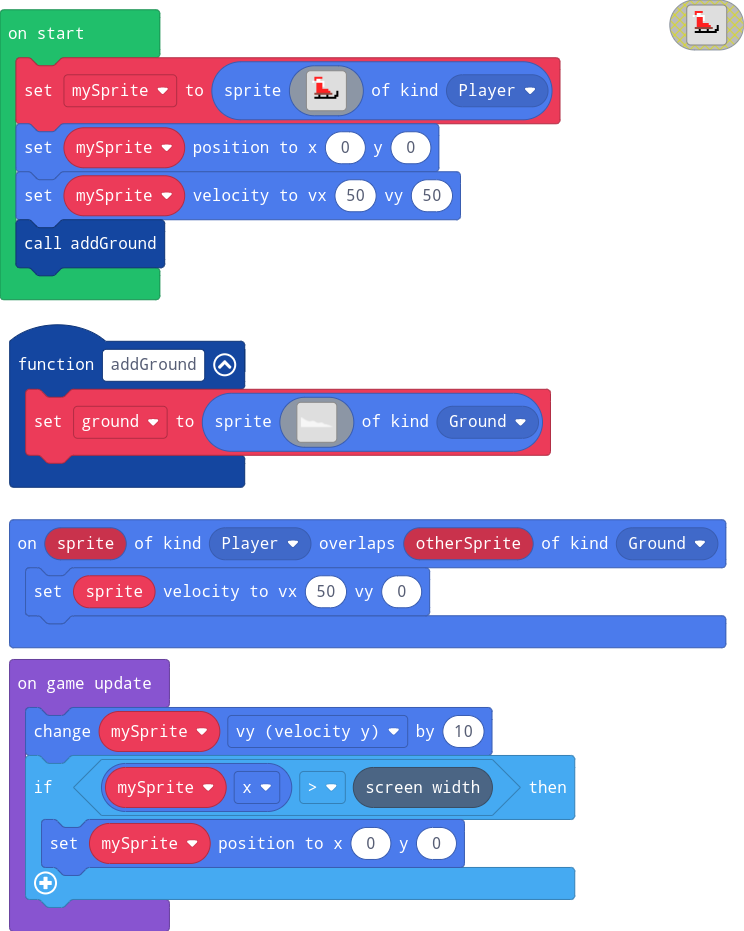
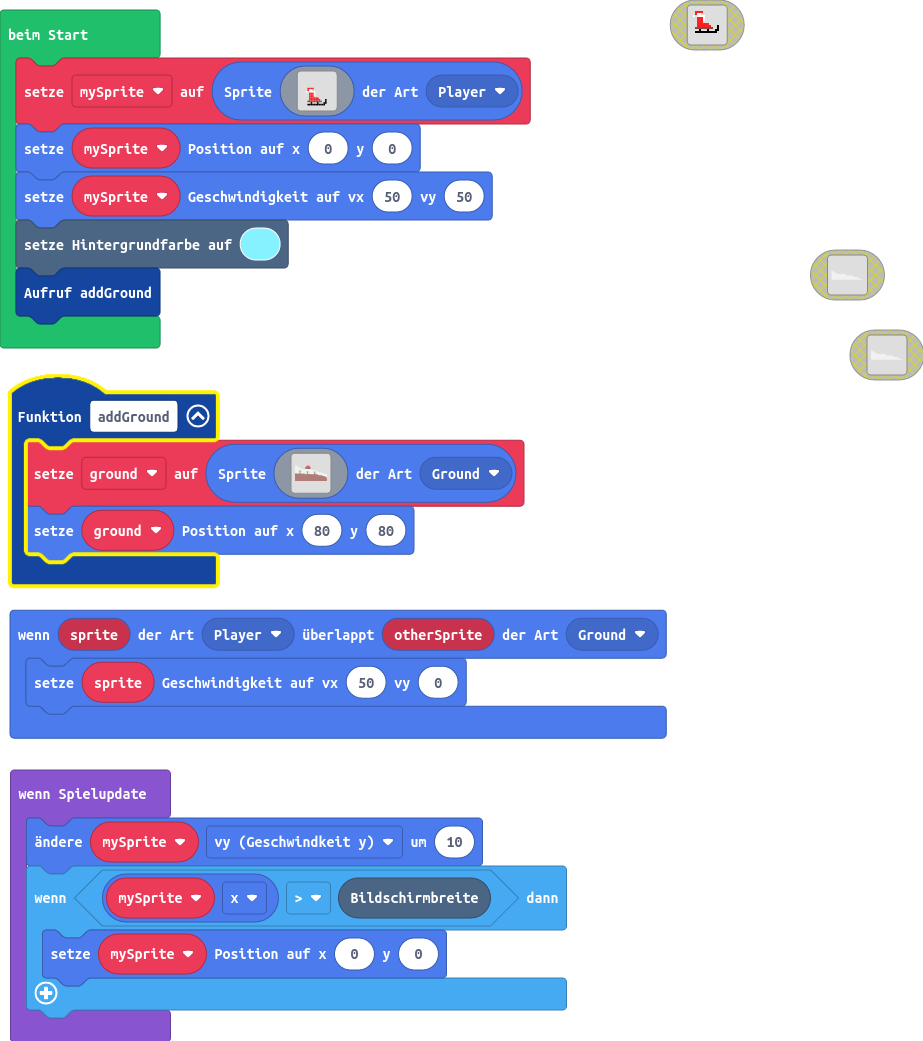
landschaft

diff --git a/main.ts b/main.ts
@@ -6,77 +6,115 @@ sprites.onOverlap(SpriteKind.Player, SpriteKind.Ground, function (sprite, otherS
 })
 function addGround () {
     ground = sprites.create(img`
-        ................................................................................................................................................................
+        11..............................................................................................................................................................
         111.............................................................................................................................................................
         111111..........................................................................................................................................................
-        1111111.........................................................................................................................................................
-        11111111........................................................................................................................................................
-        1111111111......................................................................................................................................................
-        111111111111....................................................................................................................................................
-        1111111111111...................................................................................................................................................
-        11111111111111..................................................................................................................................................
-        1111111111111111................................................................................................................................................
-        11111111111111111...............................................................................................................................................
-        1111111111111111111.............................................................................................................................................
-        111111111111111111111...........................................................................................................................................
-        1111111111111111111111..........................................................................................................................................
-        111111111111111111111111........................................................................................................................................
-        11111111111111111111111111......................................................................................................................................
-        111111111111111111111111111.....................................................................................................................................
-        111111111111111111111111111111..................................................................................................................................
-        111111111111111111111111111111111...............................................................................................................................
-        11111111111111111111111111111111111...................11111111111...............................................................................................
-        11111111111111111111111111111111111111............111111111111111111............................................................................................
-        1111111111111111111111111111111111111111111111111111111111111111111111..........................................................................................
-        11111111111111111111111111111111111111111111111111111111111111111111111.........................................................................................
-        1111111111111111111111111111111111111111111111111111111111111111111111111.......................................................................................
-        111111111111111111111111111111111111111111111111111111111111111111111111111.....................................................................................
-        1111111111111111111111111111111111111111111111111111111111111111111111111111....................................................................................
-        11111111111111111111111111111111111111111111111111111111111111111111111111111...................................................................................
-        11111111111111111111111111111111111111111111111111111111111111111111111111111111..................1111111.......................................................
-        11111111111111111111111111111111111111111111111111111111111111111111111111111111111...........11111111111111....................................................
-        11111111111111111111111111111111111111111111111111111111111111111111111111111111111111111111111111111111111111..................................................
-        111111111111111111111111111111111111111111111111111111111111111111111111111111111111111111111111111111111111111.................................................
-        1111111111111111111111111111111111111111111111111111111111111111111111111111111111111111111111111111111111111111................................................
-        11111111111111111111111111111111111111111111111111111111111111111111111111111111111111111111111111111111111111111...............................................
-        1111111111111111111111111111111111111111111111111111111111111111111111111111111111111111111111111111111111111111111.............................................
-        111111111111111111111111111111111111111111111111111111111111111111111111111111111111111111111111111111111111111111111...........................................
-        111111111111111111111111111111111111111111111111111111111111111111111111111111111111111111111111111111111111111111111111........................................
-        111111111111111111111111111111111111111111111111111111111111111111111111111111111111111111111111111111111111111111111111111111111...............................
-        11111111111111111111111111111111111111111111111111111111111111111111111111111111111111111111111111111111111111111111111111111111111.............................
-        1111111111111111111111111111111111111111111111111111111111111111111111111111111111111111111111111111111111111111111111111111111111111...........................
-        111111111111111111111111111111111111111111111111111111111111111111111111111111111111111111111111111111111111111111111111111111111111111111......................
-        1111111111111111111111111111111111111111111111111111111111111111111111111111111111111111111111111111111111111111111111111111111111111111111111..................
-        11111111111111111111111111111111111111111111111111111111111111111111111111111111111111111111111111111111111111111111111111111111111111111111111.................
-        1111111111111111111111111111111111111111111111111111111111111111111111111111111111111111111111111111111111111111111111111111111111111111111111111...............
-        111111111111111111111111111111111111111111111111111111111111111111111111111111111111111111111111111111111111111111111111111111111111111111111111111.............
-        111111111111111111111111111111111111111111111111111111111111111111111111111111111111111111111111111111111111111111111111111111111111111111111111111111..........
-        1111111111111111111111111111111111111111111111111111111111111111111111111111111111111111111111111111111111111111111111111111111111111111111111111111111111......
-        111111111111111111111111111111111111111111111111111111111111111111111111111111111111111111111111111111111111111111111111111111111111111111111111111111111111....
-        1111111111111111111111111111111111111111111111111111111111111111111111111111111111111111111111111111111111111111111111111111111111111111111111111111111111111111
+        1111111.....................................................2222222222..........................................................................................
+        11111111...................................................222222222222.........................................................................................
+        1111111111................................................22222222222222........................................................................................
+        111111111111.............................................2222222222222222.......................................................................................
+        1111111111111...........................................222222222222222222......................................................................................
+        11111111111111.........................................22222222222222222222.....................................................................................
+        1111111111111111......................................2222222222222222222222....................................................................................
+        11111111111111111....................................222eeeeee22222222eeee222...................................................................................
+        1111111111111111111.................................eeeeeeeeeeeeeeeeeeeeeeeeee..................................................................................
+        111111111111111111111..............................eeeeeeeeeeeeeeeefffffeeeeee..................................................................................
+        1111111111111111111111.............................eeefffffffeeeeeefcccfeeeeee..................................................................................
+        111111111111111111111111...........................eeef99f99feeeeeefcccfeeeeee..................................................................................
+        11111111111111111111111111.........................eeef99f99feeeeeefcccfeeeeee..................................................................................
+        111111111111111111111111111........................eeefffffffeeeeeefccffeeeeee..................................................................................
+        111111111111111111111111111111.....................eeeeeeeeeeeeeeeefcccfeeeeee..................................................................................
+        111111111111111111111111111111111..................eeeeeeeeeeeeeeeefcccfeeeeee..................................................................................
+        11111111111111111111111111111111111................eeeeeeeeeeeeeeeefcccfeeeeee..................................................................................
+        1111111111111111111111111111111111111111111111111111111111111111111111111111111111..............................................................................
+        1111111111111111111111111111111111111111111111111111111111111111111111111111111111..............................................................................
+        11111111111111111111111111111111111111111111111111111111111111111111111111111111111.............................................................................
+        111111111111111111111111111111111111111111111111111111111111111111111111111111111111............................................................................
+        1111111111111111111111111111111111111111111111111111111111111111111111111111111111111111........................................................................
+        11111111111111111111111111111111111111111111111111111111111111111111111111111111111111111111....................................................................
+        111111111111111111111177777771111111111111111111111111111111111111111111111111111111111111111111................................................................
+        111111111111111111177777777777111111111111111111111111111111111111111111111111111111111111111111111111111.......................................................
+        111111111111111111177777777777777111111111111111111111111111111111111111111111111111111111111111111111111111....................................................
+        11111111111111111177777777777777711111111111111111111111111111111111111111111111111111111111111111111111111111..................................................
+        111111111111111111777777777777777111111111111111111111111111777777711111111111111111111111111111111111111111111.................................................
+        11111111111111111177777777eee77711111111111111111111111111777777777111111111111111111111111111111111777111111111................................................
+        11111111111111111111111eeeeee777111111111111111111111111777777777777711111111111111111111111117777777771111111111...............................................
+        11111111111111111111111eeeee111111111111111111111111111177777777777771111111111111111111111117777777777771111111111.............................................
+        11111111111111111111111eeeee11111111111111111111111111177777777777777711111111111111111111117777777777777111111111111...........................................
+        11111111111111111111111eeee111111111111111111111111111177777777777777711111111111111111111117777777777777711111111111111........................................
+        11111111111111111111111eeee111111111111111111111111111117777777777777711111111111111111111117777777777777711111111111111111111111...............................
+        11111111111111111111111eeee111111111111111111111111111111111eeeee777111111111111111111111111111117777777771111111111111111111111111.............................
+        11111111111111111111111eeee111111111111111111111111111111111eeeee11111111111111111111111111111111eee777111111111111111111111111111111...........................
+        11111111111111111111111eeee111111111111111111111111111111111eeee111111111111111111111111111111111eeeeee11111111111111111111111111111111111......................
+        11111111111111111111111eeeee11111111111111111111111111111111eeee111111111111111111111111111111111eeeee1111111111111111111111111111111111111111..................
+        11111111111111111111111eeeee11111111111111117777771111111111eeee11111111111111111111111111111111eeeee111111111111111111111111111111111111111111.................
+        eeeeeeeeee1111111111111eeeee11111111111111777777777111111111eeee11111111111111111111111111111111eeeee11111111111111111111111111111111111111111111...............
+        eeeeeeeeeeeeeeeeeeeeeeeeeeeeeeeeeeeeeeeee77777777777111111111eeee111111111111111111111111111111eeeeee1111111111111111111111111111111111111111111111.............
+        eeeeeeeeeeeeeeeeeeeeeeeeeeeeeeeeeeeeeeeeee7777777777711111111eeee111111111111111111111111111111eeeeee1111111111111111111111111111111111111111111111111..........
+        eeeeeeeeeeeeeeeeeeeeeeeeeeeeeeeeeeeeeeeeeee777777ee7711111111eeee1eeeeeeeeeeee11111111111111111eeeee111111111111111111111111111111111111111111111111111111......
+        eeeeeeeeeeeeeeeeeeeeeeeeeeeeeeeeeeeeeeeeeeeeeeeeeeee7eeeeeeeeeeeeeeeeeeeeeeeeeeeeeeeeeeeeeeeeeeeeeeeeeeeeeeeee1111111111111111111111111111111111111111111111....
[15 lines of base64/hex data omitted]
+        eeeeeeeeeeeeeeeeeeeeeeeeeeeeeeeeeeeeeeeeeeeeeeeeeeeeeeeeeeeeeeeeeeeeeeeeeeeeeeeeeeeeeeeeeeeeeeeeeeeeeeeeeeeeeeeeeeeeeeeeeeeeeeeeeeeeeeeeeeeeeeeeeeeeeeeeeeeeeeee
+        eeeeeeeeeeeeeeeeeeeeeeeeeeeeeeeeeeeeeeeeeeeeeeeeeeeeeeeeeeeeeeeeeeeeeeeeeeeeeeeeeeeeeeeeeeeeeeeeeeeeeeeeeeeeeeeeeeeeeeeeeeeeeeeeeeeeeeeeeeeeeeeeeeeeeeeeeeeeeeee
+        eeeeeeeeeeeeeeeeeeeeeeeeeeeeeeeeeeeeeeeeeeeeeeeeeeeeeeeeeeeeeeeeeeeeeeeeeeeeeeeeeeeeeeeeeeeeeeeeeeeeeeeeeeeeeeeeeeeeeeeeeeeeeeeeeeeeeeeeeeeeeeeeeeeeeeeeeeeeeeee
+        eeeeeeeeeeeeeeeeeeeeeeeeeeeeeeeeeeeeeeeeeeeeeeeeeeeeeeeeeeeeeeeeeeeeeeeeeeeeeeeeeeeeeeeeeeeeeeeeeeeeeeeeeeeeeeeeeeeeeeeeeeeeeeeeeeeeeeeeeeeeeeeeeeeeeeeeeeeeeeee
+        eeeeeeeeeeeeeeeeeeeeeeeeeeeeeeeeeeeeeeeeeeeeeeeeeeeeeeeeeeeeeeeeeeeeeeeeeeeeeeeeeeeeeeeeeeeeeeeeeeeeeeeeeeeeeeeeeeeeeeeeeeeeeeeeeeeeeeeeeeeeeeeeeeeeeeeeeeeeeeee
+        eeeeeeeeeeeeeeeeeeeeeeeeeeeeeeeeeeeeeeeeeeeeeeeeeeeeeeeeeeeeeeeeeeeeeeeeeeeeeeeeeeeeeeeeeeeeeeeeeeeeeeeeeeeeeeeeeeeeeeeeeeeeeeeeeeeeeeeeeeeeeeeeeeeeeeeeeeeeeeee
+        eeeeeeeeeeeeeeeeeeeeeeeeeeeeeeeeeeeeeeeeeeeeeeeeeeeeeeeeeeeeeeeeeeeeeeeeeeeeeeeeeeeeeeeeeeeeeeeeeeeeeeeeeeeeeeeeeeeeeeeeeeeeeeeeeeeeeeeeeeeeeeeeeeeeeeeeeeeeeeee
+        eeeeeeeeeeeeeeeeeeeeeeeeeeeeeeeeeeeeeeeeeeeeeeeeeeeeeeeeeeeeeeeeeeeeeeeeeeeeeeeeeeeeeeeeeeeeeeeeeeeeeeeeeeeeeeeeeeeeeeeeeeeeeeeeeeeeeeeeeeeeeeeeeeeeeeeeeeeeeeee
+        eeeeeeeeeeeeeeeeeeeeeeeeeeeeeeeeeeeeeeeeeeeeeeeeeeeeeeeeeeeeeeeeeeeeeeeeeeeeeeeeeeeeeeeeeeeeeeeeeeeeeeeeeeeeeeeeeeeeeeeeeeeeeeeeeeeeeeeeeeeeeeeeeeeeeeeeeeeeeeee
+        eeeeeeeeeeeeeeeeeeeeeeeeeeeeeeeeeeeeeeeeeeeeeeeeeeeeeeeeeeeeeeeeeeeeeeeeeeeeeeeeeeeeeeeeeeeeeeeeeeeeeeeeeeeeeeeeeeeeeeeeeeeeeeeeeeeeeeeeeeeeeeeeeeeeeeeeeeeeeeee
+        eeeeeeeeeeeeeeeeeeeeeeeeeeeeeeeeeeeeeeeeeeeeeeeeeeeeeeeeeeeeeeeeeeeeeeeeeeeeeeeeeeeeeeeeeeeeeeeeeeeeeeeeeeeeeeeeeeeeeeeeeeeeeeeeeeeeeeeeeeeeeeeeeeeeeeeeeeeeeeee
+        eeeeeeeeeeeeeeeeeeeeeeeeeeeeeeeeeeeeeeeeeeeeeeeeeeeeeeeeeeeeeeeeeeeeeeeeeeeeeeeeeeeeeeeeeeeeeeeeeeeeeeeeeeeeeeeeeeeeeeeeeeeeeeeeeeeeeeeeeeeeeeeeeeeeeeeeeeeeeeee
+        eeeeeeeeeeeeeeeeeeeeeeeeeeeeeeeeeeeeeeeeeeeeeeeeeeeeeeeeeeeeeeeeeeeeeeeeeeeeeeeeeeeeeeeeeeeeeeeeeeeeeeeeeeeeeeeeeeeeeeeeeeeeeeeeeeeeeeeeeeeeeeeeeeeeeeeeeeeeeeee
+        eeeeeeeeeeeeeeeeeeeeeeeeeeeeeeeeeeeeeeeeeeeeeeeeeeeeeeeeeeeeeeeeeeeeeeeeeeeeeeeeeeeeeeeeeeeeeeeeeeeeeeeeeeeeeeeeeeeeeeeeeeeeeeeeeeeeeeeeeeeeeeeeeeeeeeeeeeeeeeee
+        eeeeeeeeeeeeeeeeeeeeeeeeeeeeeeeeeeeeeeeeeeeeeeeeeeeeeeeeeeeeeeeeeeeeeeeeeeeeeeeeeeeeeeeeeeeeeeeeeeeeeeeeeeeeeeeeeeeeeeeeeeeeeeeeeeeeeeeeeeeeeeeeeeeeeeeeeeeeeeee
+        eeeeeeeeeeeeeeeeeeeeeeeeeeeeeeeeeeeeeeeeeeeeeeeeeeeeeeeeeeeeeeeeeeeeeeeeeeeeeeeeeeeeeeeeeeeeeeeeeeeeeeeeeeeeeeeeeeeeeeeeeeeeeeeeeeeeeeeeeeeeeeeeeeeeeeeeeeeeeeee
+        eeeeeeeeeeeeeeeeeeeeeeeeeeeeeeeeeeeeeeeeeeeeeeeeeeeeeeeeeeeeeeeeeeeeeeeeeeeeeeeeeeeeeeeeeeeeeeeeeeeeeeeeeeeeeeeeeeeeeeeeeeeeeeeeeeeeeeeeeeeeeeeeeeeeeeeeeeeeeeee
+        eeeeeeeeeeeeeeeeeeeeeeeeeeeeeeeeeeeeeeeeeeeeeeeeeeeeeeeeeeeeeeeeeeeeeeeeeeeeeeeeeeeeeeeeeeeeeeeeeeeeeeeeeeeeeeeeeeeeeeeeeeeeeeeeeeeeeeeeeeeeeeeeeeeeeeeeeeeeeeee
         `, SpriteKind.Ground)
+    ground.setPosition(80, 80)
 }
 let ground: Sprite = null
 let mySprite = sprites.create(img`
-    . . . . . . . . . . . . . . . . 
-    . . 2 2 2 2 . . . . . . . . . . 
-    . . 2 1 1 d . . . . . . . . . . 
-    . 1 . 1 1 1 1 . . . . . . . . . 
-    . . . 2 2 2 1 . . . . . . . . . 
-    . . . 2 2 2 1 . . . . . . . . . 
-    . . . 2 2 2 . . . . . . . . . . 
-    . . . 2 2 2 2 2 2 . . . . . . . 
-    . . . 2 2 2 2 2 2 2 . . . f . . 
-    . . e e e e e e e e e . . f . . 
-    . . . . f . . . f . . . f f . . 
-    . . f f f f f f f f f f f . . . 
-    . . . . . . . . . . . . . . . . 
-    . . . . . . . . . . . . . . . . 
-    . . . . . . . . . . . . . . . . 
-    . . . . . . . . . . . . . . . . 
+    ....................
+    ....................
+    ....................
+    ....................
+    ....................
+    ....................
+    ....................
+    ....................
+    ....2222............
+    ....211d............
+    ...1.1111...........
+    .....2221...........
+    .....2221...........
+    .....222............
+    .....222222.........
+    .....2222222...f....
+    ....eeeeeeeee..f....
+    ......f...f...ff....
+    ....fffffffffff.....
+    ....................
     `, SpriteKind.Player)
 mySprite.setPosition(0, 0)
 mySprite.setVelocity(50, 50)
+scene.setBackgroundColor(9)
 addGround()
 game.onUpdate(function () {
     mySprite.vy += 10
